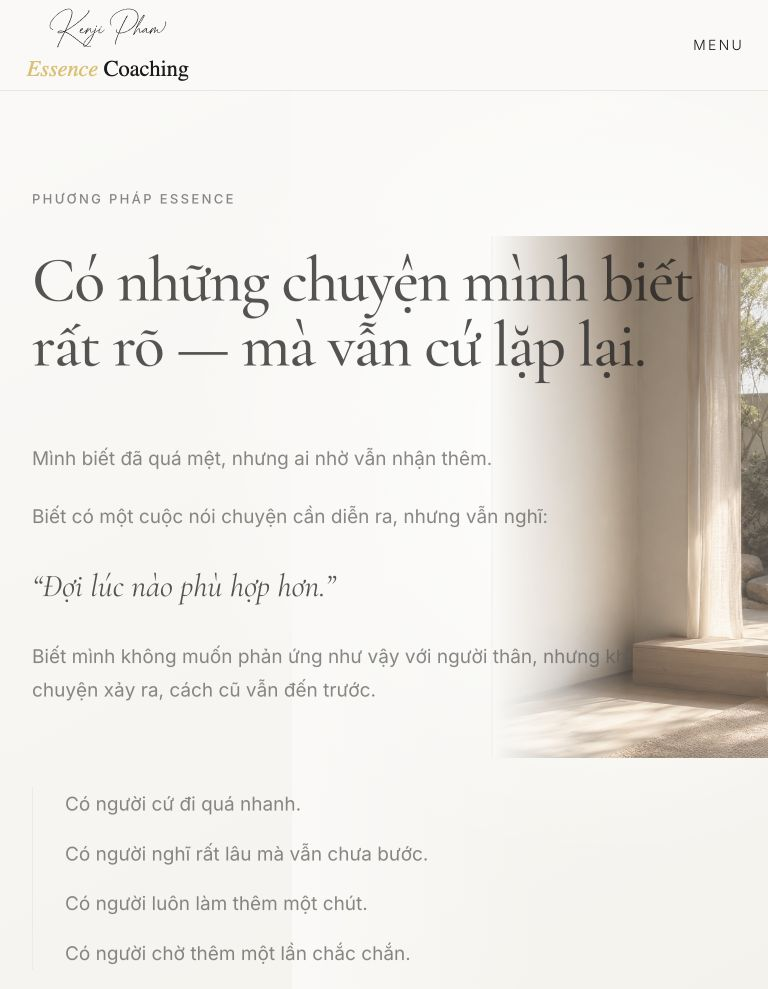
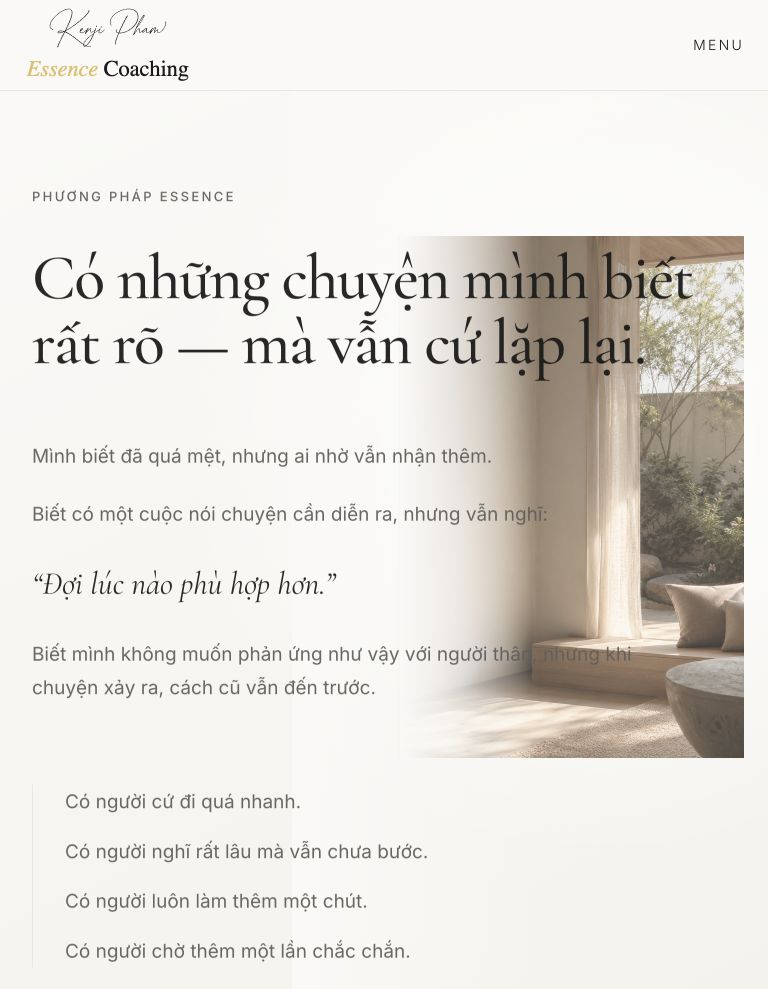
fix: refine phuong-phap atmospheric placement

diff --git a/src/styles/phuong-phap.module.css b/src/styles/phuong-phap.module.css
@@ -31,8 +31,8 @@
 
 .heroSurface::before {
   top: 10%;
-  right: max(-10vw, -10rem);
-  width: min(46vw, 42rem);
+  right: max(1.5rem, calc((100vw - 1180px) / 2 - 2rem));
+  width: min(45vw, 40rem);
   height: min(68vw, 48rem);
   opacity: 0.76;
   border-left: 1px solid var(--essence-border-light-2026);
@@ -82,9 +82,9 @@
 .chillAtmosphere::before {
   top: 8%;
   bottom: 7%;
-  left: max(-8vw, -7rem);
-  width: min(46vw, 39rem);
-  opacity: 0.58;
+  left: max(-4vw, -3rem);
+  width: min(51vw, 44rem);
+  opacity: 0.62;
   border-right: 1px solid var(--essence-border-light-2026);
   background-image:
     linear-gradient(
@@ -127,9 +127,9 @@
 .realityAtmosphere::before {
   top: 7%;
   bottom: 6%;
-  left: max(-8vw, -7rem);
-  width: min(48vw, 42rem);
-  opacity: 0.58;
+  left: max(-4vw, -3rem);
+  width: min(51vw, 44rem);
+  opacity: 0.62;
   background-image:
     linear-gradient(
       90deg,
@@ -210,37 +210,80 @@
   background: color-mix(in srgb, var(--essence-text-primary-2026) 12%, transparent);
 }
 
+.mobileAtmosphereBand {
+  display: none;
+}
+
 @media (max-width: 767px) {
   .heroSurface::before {
-    top: auto;
-    right: -34%;
-    bottom: -14rem;
-    width: 120%;
-    height: 29rem;
-    opacity: 0.48;
+    display: none;
   }
 
   .heroSurface::after {
-    top: 54%;
-    left: 0;
-    background: linear-gradient(180deg, transparent 0%, var(--essence-ivory-2026) 76%);
+    display: none;
   }
 
   .chillAtmosphere::before,
   .realityAtmosphere::before {
-    top: auto;
-    right: -24%;
-    bottom: -9rem;
-    left: auto;
-    width: 125%;
-    height: 25rem;
-    opacity: 0.4;
-    border: 0;
+    display: none;
   }
 
   .chillAtmosphere::after,
   .realityAtmosphere::after {
     display: none;
+  }
+
+  .mobileAtmosphereBand {
+    display: block;
+    width: 100%;
+    overflow: hidden;
+    background-repeat: no-repeat;
+    background-size: cover;
+  }
+
+  .mobileHeroAtmosphere {
+    height: 9rem;
+    margin-top: 2rem;
+    background-image:
+      linear-gradient(
+        90deg,
+        var(--essence-ivory-2026) 0%,
+        color-mix(in srgb, var(--essence-ivory-2026) 30%, transparent) 22%,
+        transparent 78%,
+        var(--essence-cream-2026) 100%
+      ),
+      var(--phuong-phap-hero-field-image);
+    background-position: center, right 54%;
+  }
+
+  .mobileChillAtmosphere {
+    height: 7rem;
+    margin-top: 2rem;
+    background-image:
+      linear-gradient(
+        90deg,
+        var(--essence-cream-2026) 0%,
+        color-mix(in srgb, var(--essence-cream-2026) 24%, transparent) 24%,
+        transparent 76%,
+        var(--essence-cream-2026) 100%
+      ),
+      var(--phuong-phap-chill-field-image);
+    background-position: center, right 58%;
+  }
+
+  .mobileRealityAtmosphere {
+    height: 9rem;
+    margin-top: 2rem;
+    background-image:
+      linear-gradient(
+        90deg,
+        var(--essence-cream-2026) 0%,
+        color-mix(in srgb, var(--essence-cream-2026) 20%, transparent) 22%,
+        transparent 78%,
+        var(--essence-ivory-2026) 100%
+      ),
+      var(--phuong-phap-reality-field-image);
+    background-position: center, right 48%;
   }
 }
 

diff --git a/src/pages/phuong-phap.tsx b/src/pages/phuong-phap.tsx
@@ -156,6 +156,10 @@ export default function PhuongPhapPage() {
               <EssenceDisplay as="h1">
                 Có những chuyện mình biết rất rõ — mà vẫn cứ lặp lại.
               </EssenceDisplay>
+              <div
+                aria-hidden="true"
+                className={`${styles.mobileAtmosphereBand} ${styles.mobileHeroAtmosphere}`}
+              />
 
               <div className="mt-12 space-y-6 md:mt-16">
                 <EssenceBody as="p">
@@ -310,6 +314,10 @@ export default function PhuongPhapPage() {
                 <EssenceAnchor as="h2" className="max-w-[480px]">
                   Chill với cảm xúc
                 </EssenceAnchor>
+                <div
+                  aria-hidden="true"
+                  className={`${styles.mobileAtmosphereBand} ${styles.mobileChillAtmosphere}`}
+                />
               </div>
 
               <div
@@ -465,6 +473,10 @@ export default function PhuongPhapPage() {
                   03
                 </EssenceUtility>
                 <EssenceAnchor as="h2">Hiện thực ước mơ</EssenceAnchor>
+                <div
+                  aria-hidden="true"
+                  className={`${styles.mobileAtmosphereBand} ${styles.mobileRealityAtmosphere}`}
+                />
                 <EssenceLeadIn as="p" className="mt-12 md:mt-16">
                   Câu trả lời chỉ thật sự có ý nghĩa khi nó bắt đầu hiện ra trong cách mình sống.
                 </EssenceLeadIn>
